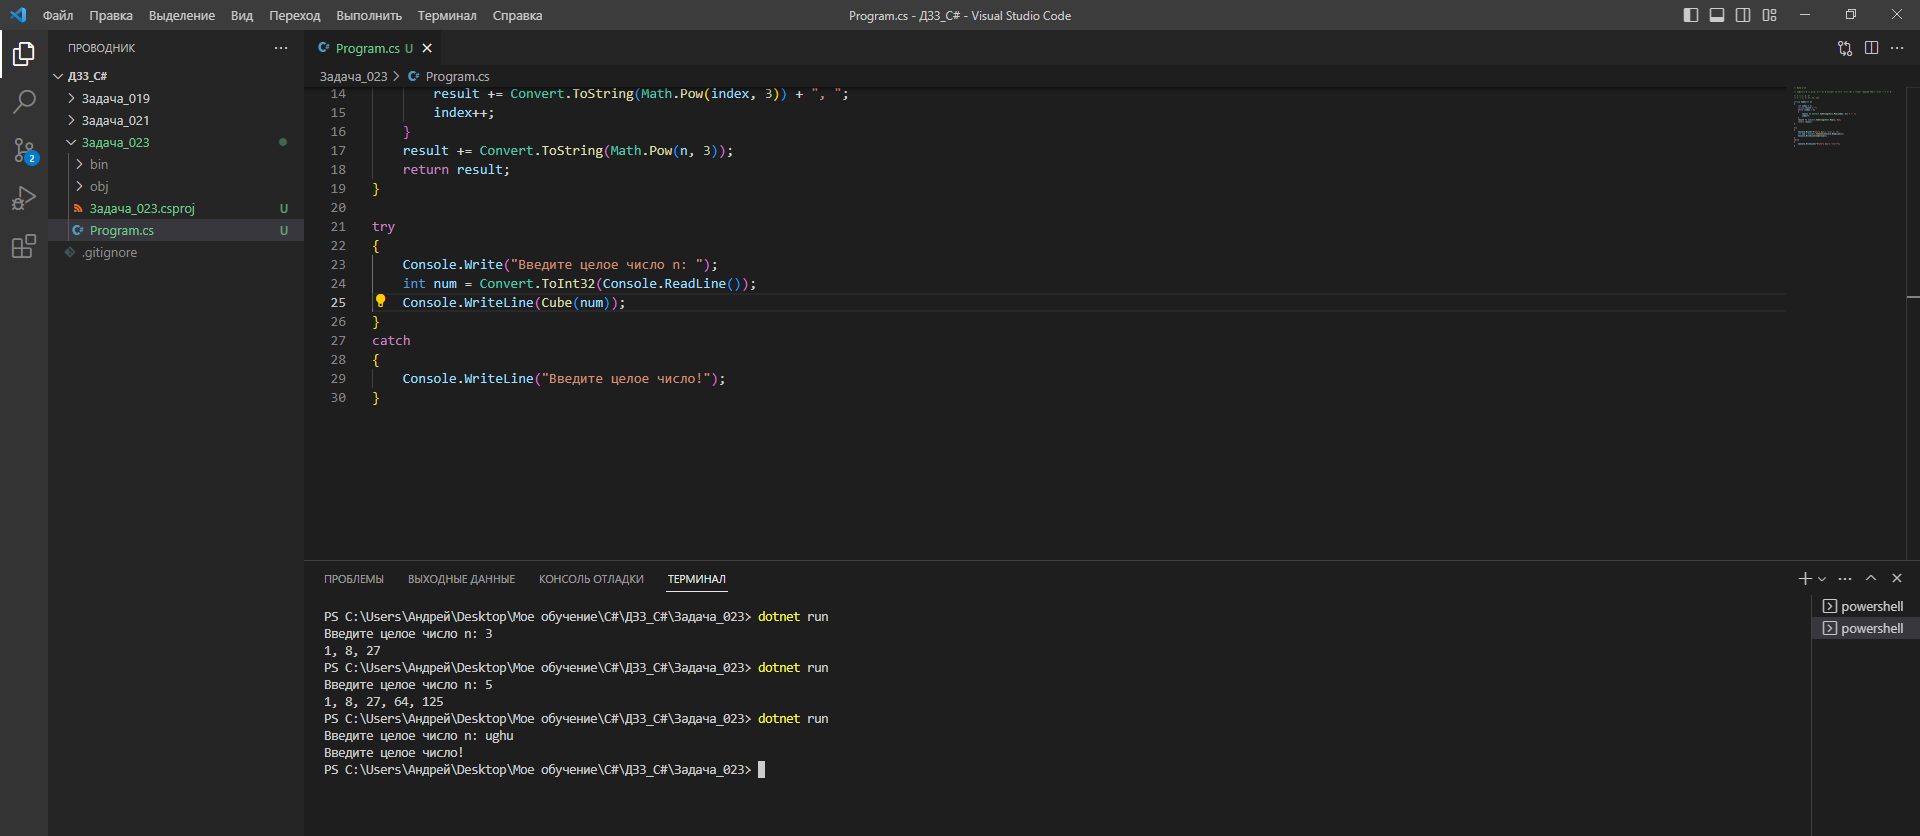
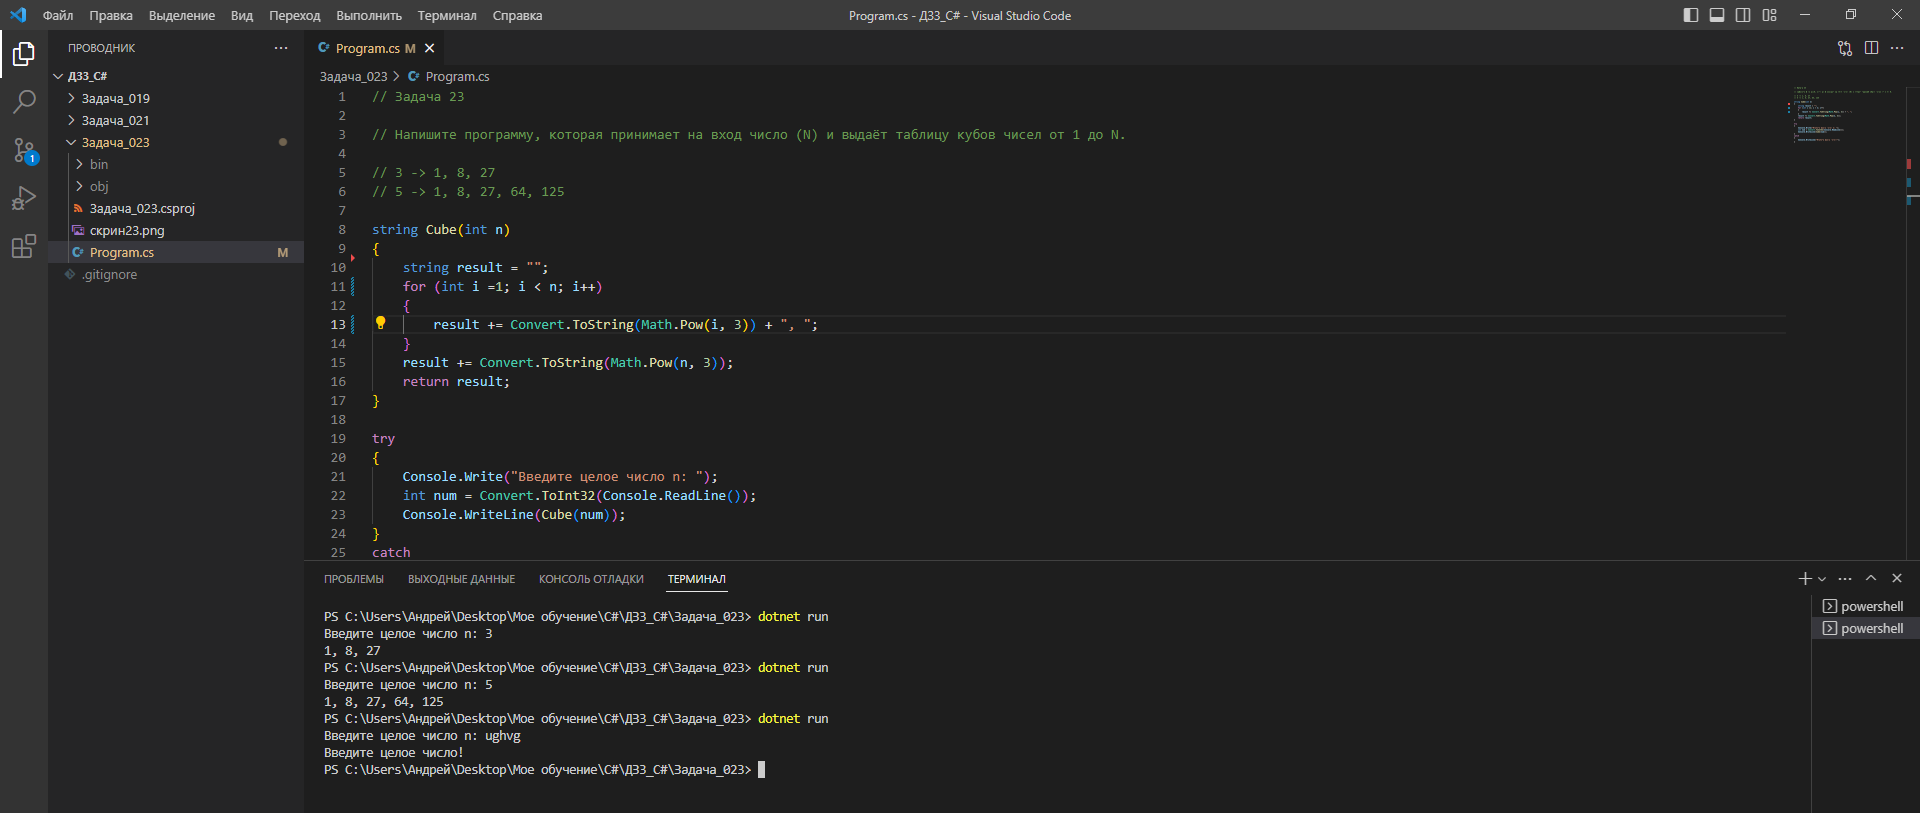
Заменила в 23 задаче цикл while на цикл for и заменила скрин успешного выполнения кода

diff --git a/Задача_023/Program.cs b/Задача_023/Program.cs
@@ -7,12 +7,10 @@
 
 string Cube(int n)
 {
-    int index = 1;
     string result = "";
-    while (index < n)
+    for (int i =1; i < n; i++)
     {
-        result += Convert.ToString(Math.Pow(index, 3)) + ", ";
-        index++;
+        result += Convert.ToString(Math.Pow(i, 3)) + ", ";
     }
     result += Convert.ToString(Math.Pow(n, 3));
     return result;
